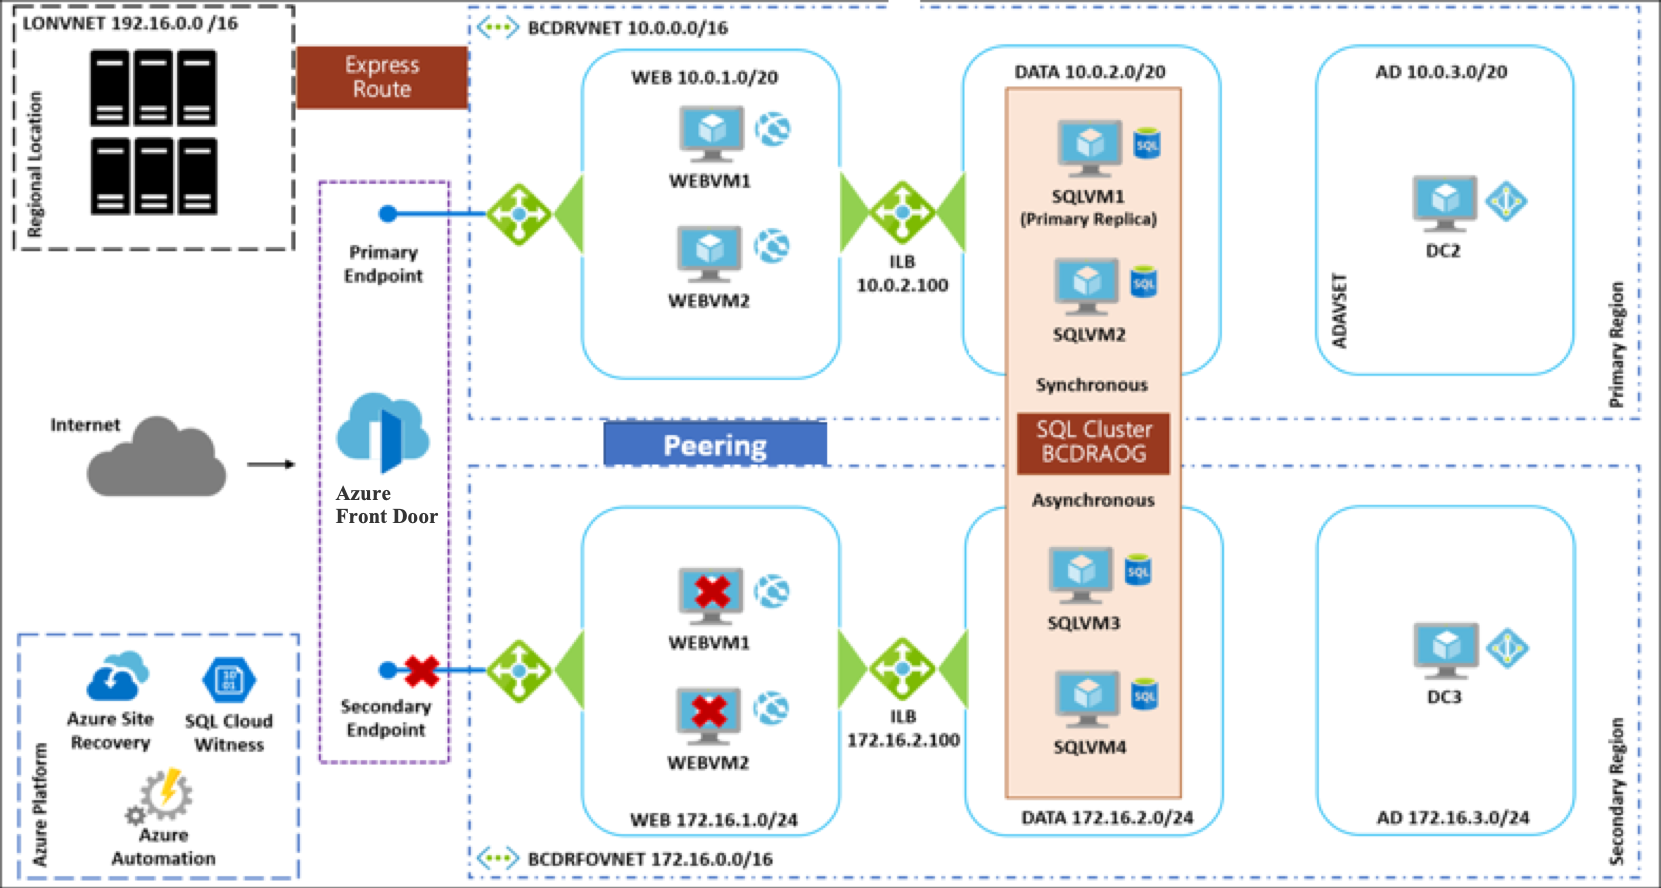
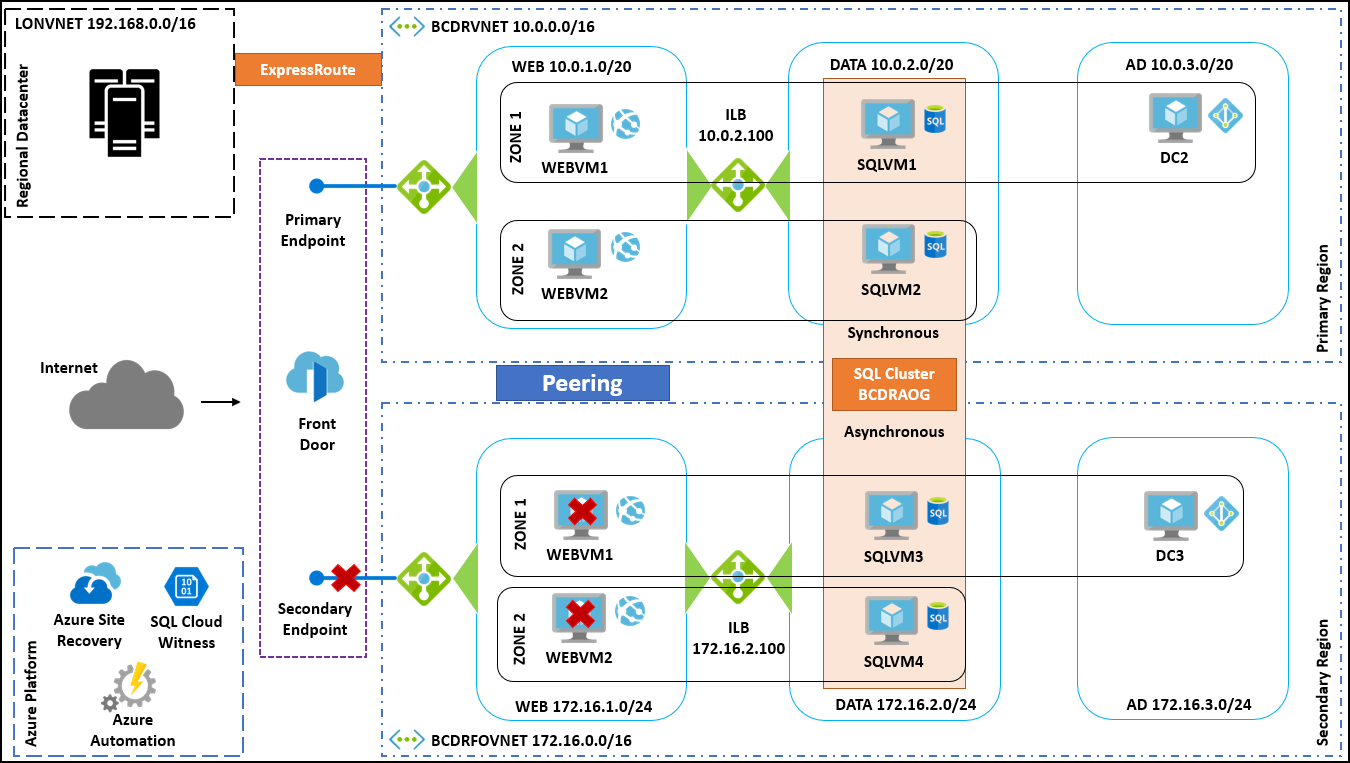
Update Readme to 2019 and add update diagrams to correct folder

diff --git a/README.md b/README.md
@@ -1,5 +1,5 @@
 # Business continuity and disaster recovery
-November 2018
+May 2019
 
 Contoso Insurance, headquartered in Miami, is a multi-national corporation providing insurance solutions in North America, Europe, and Australia. Its products include accident and health insurance, life insurance, travel, home, and auto coverage. Contoso seeks to automate their backup and recovery of their solutions, not just individual components.
 
